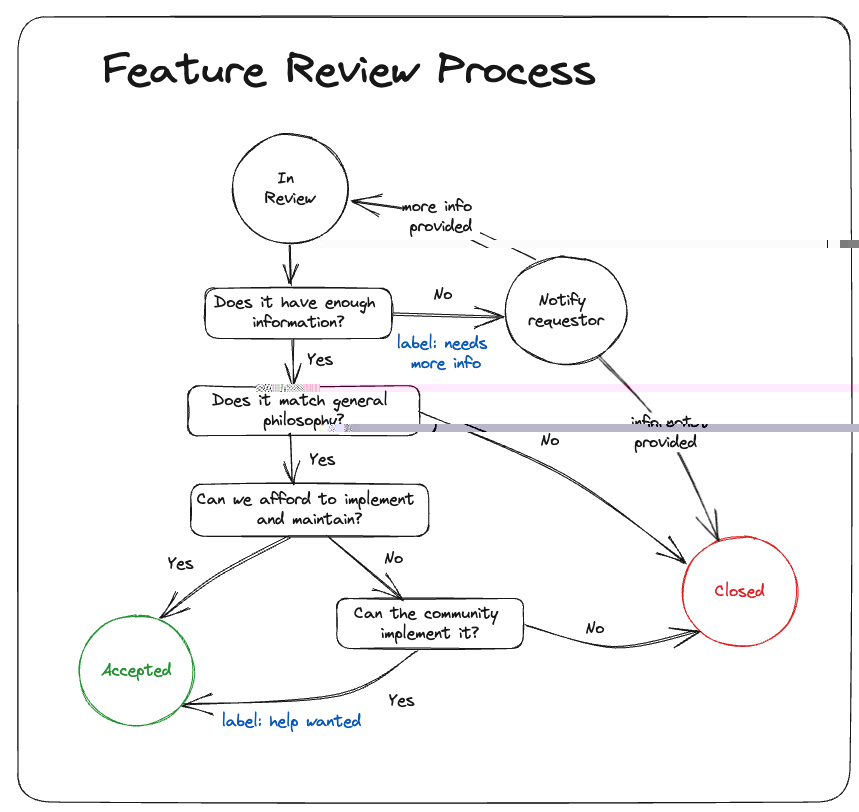
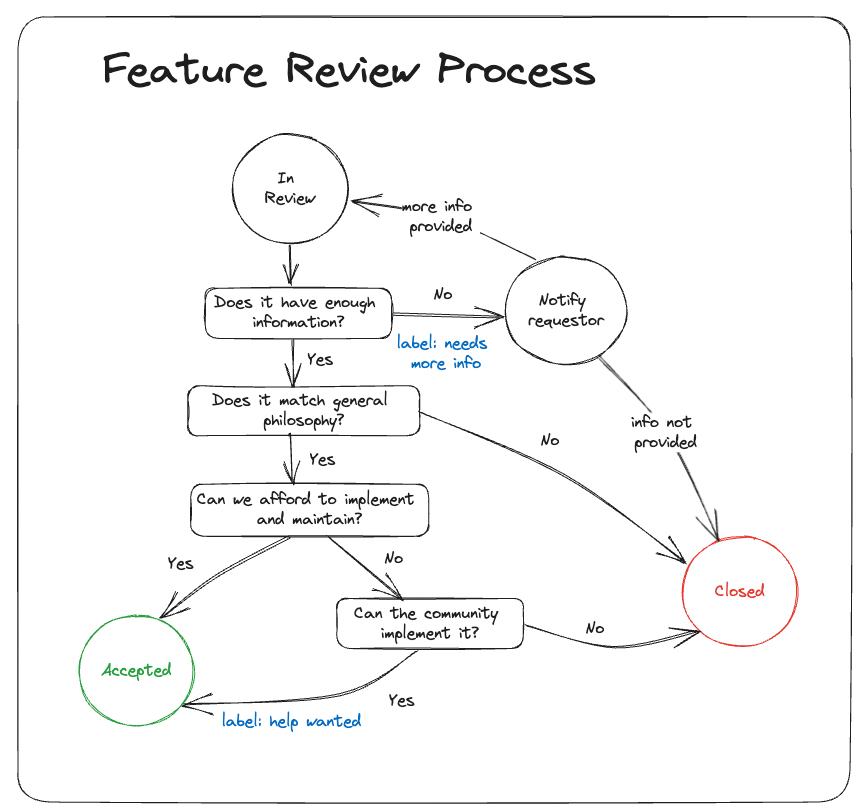
more updates - final version (at least for now)

Changed region(s): [[0.3632, 0.5234, 1.0, 0.5542], [0.3027, 0.4618, 0.3935, 0.4926], [0.9686, 0.2771, 1.0, 0.3079]]

diff --git a/docs/contributing/triage/triage-process.md b/docs/contributing/triage/triage-process.md
@@ -114,7 +114,7 @@ If you are the author of a feature request you might not like that we close or d
 
 This is our decision making tree.
 
-![Radius Issue Review Flow](./images/radius_review_new.jpg "Radius Issue Review Flow")
+![Radius Issue Review Flow](./images/triage_review.jpg "Radius Issue Review Flow")
 
 ## Won't Fix Bugs
 
